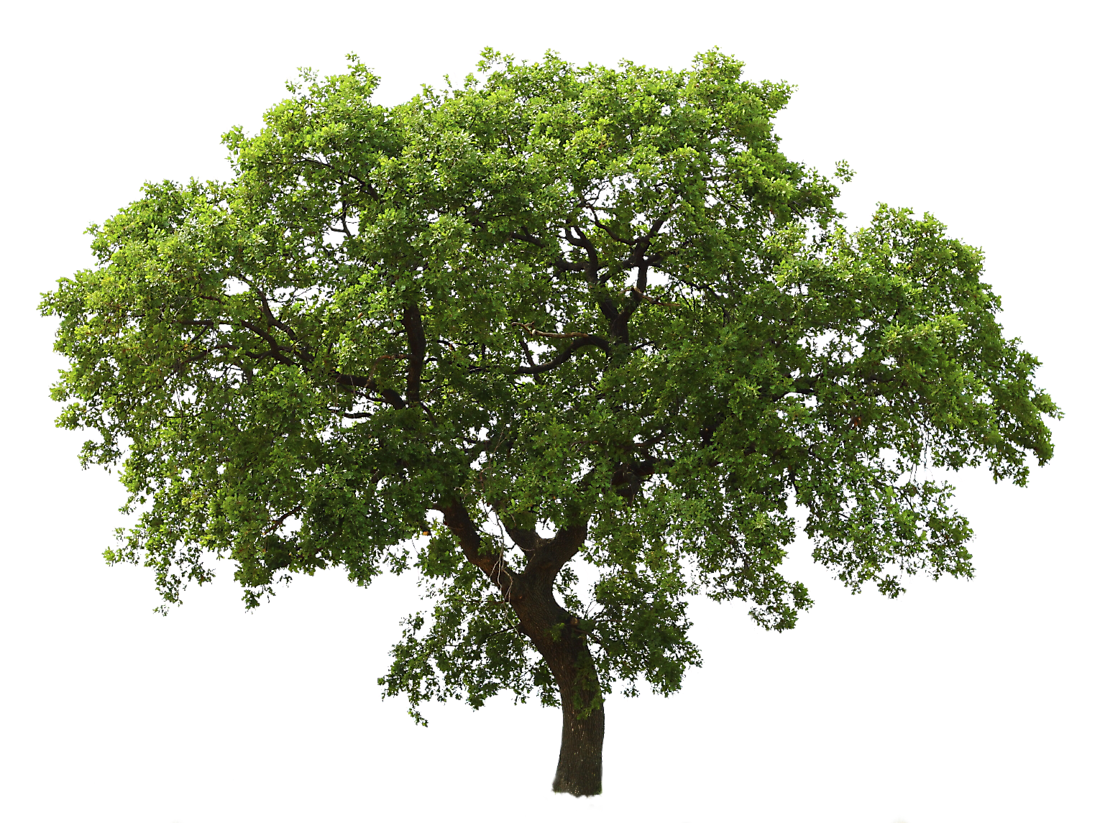
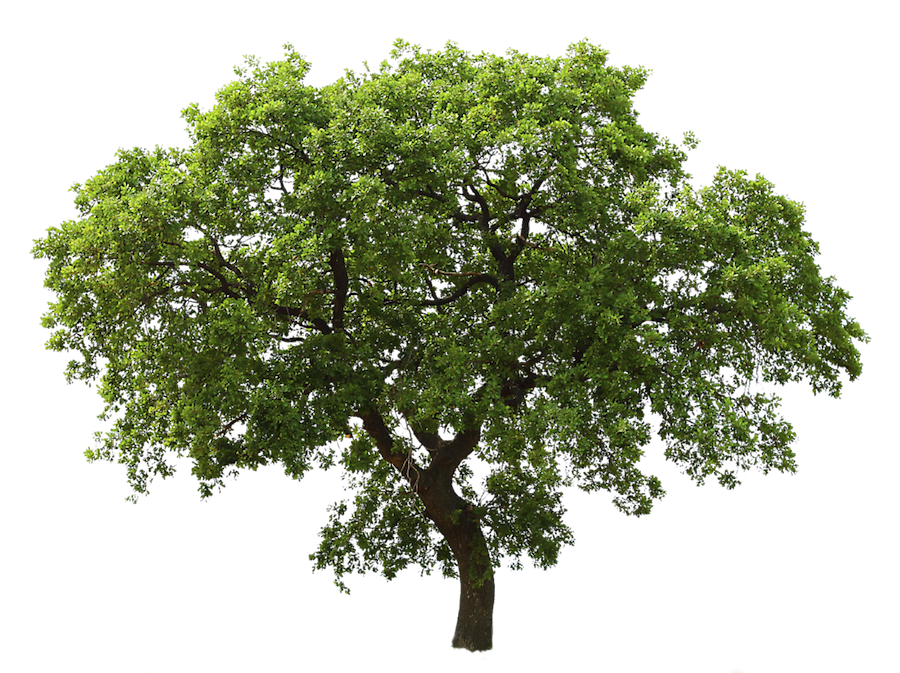
Reduced image size of tree; adjusted percentage of page coverage of tree image in css.

diff --git a/css/butterfly.css b/css/butterfly.css
@@ -9,7 +9,7 @@ body {
         url(/img/flowers.png) no-repeat bottom right,
         url(/img/tree.png) no-repeat center,
         url(/img/field.jpg) no-repeat center;
-    background-size: 25%, 25%, 20%, 75%, cover;
+    background-size: 25%, 25%, 20%, 60%, cover;
         -webkit-background-size: 25%, 25%, 20%, 75%, cover;
         -moz-background-size: 25%, 25%, 20%, 75%, cover;
         -o-background-size: 25%, 25%, 20%, 75%, cover;
